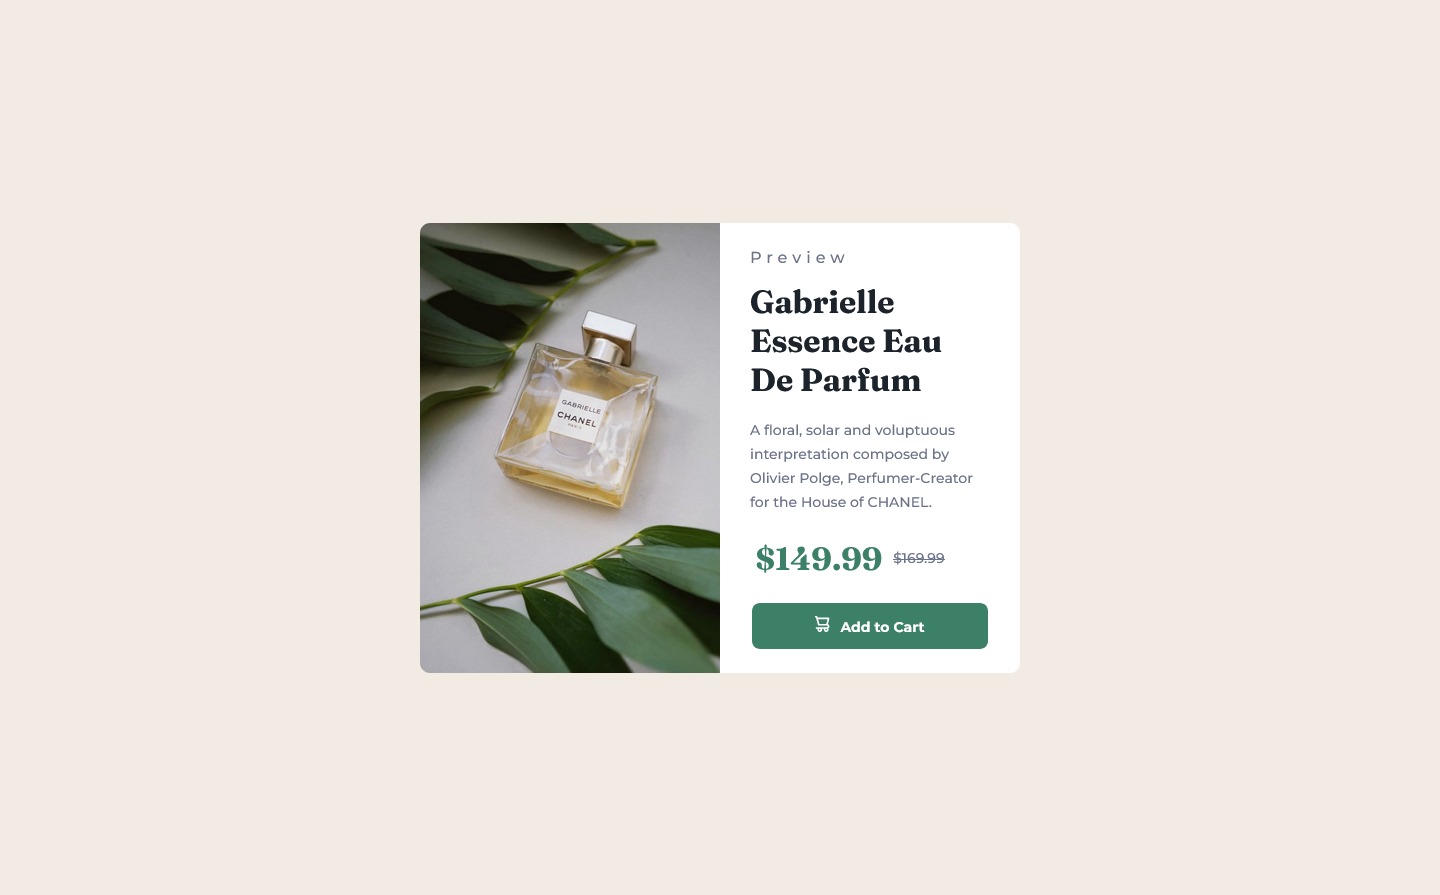
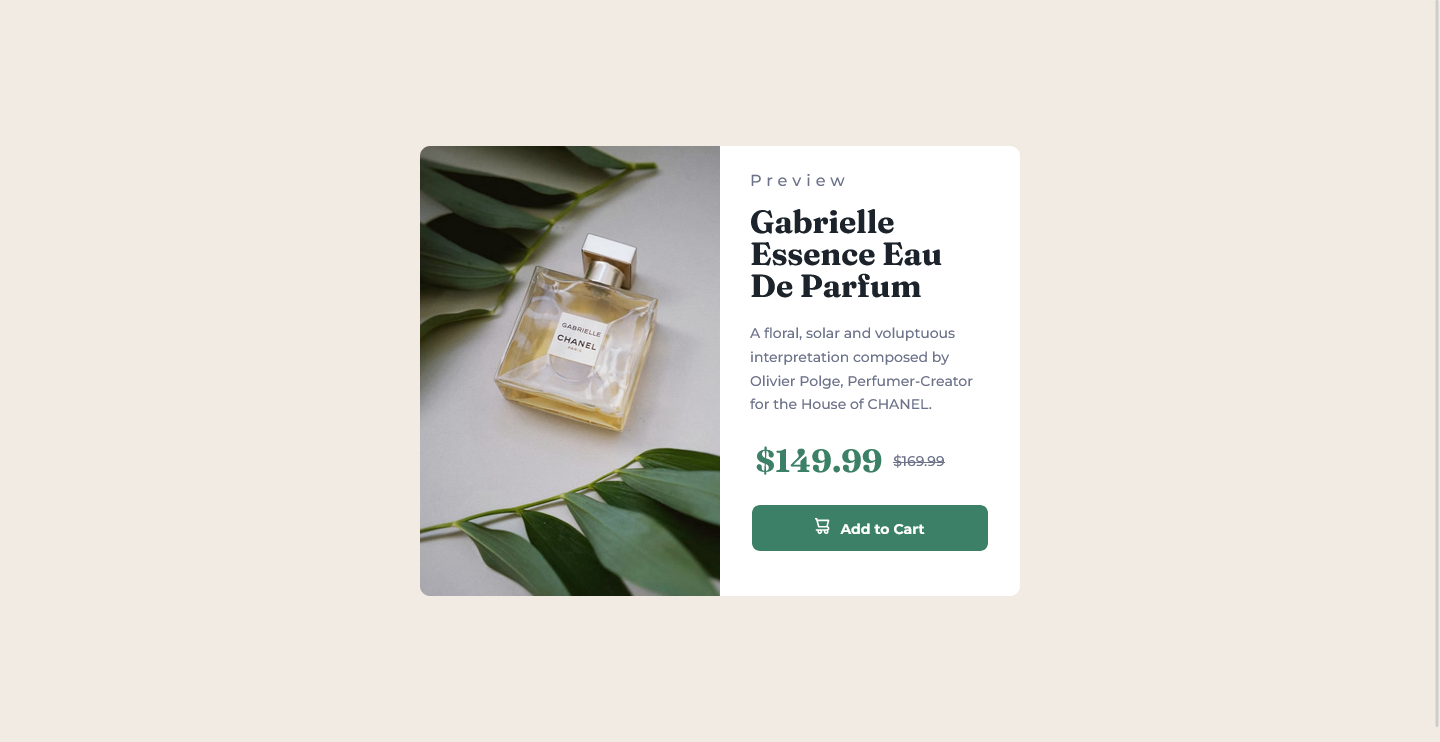
Pic Element

Changed region(s): [[0.2812, 0.186, 0.7188, 0.8059]]

diff --git a/css/main.css b/css/main.css
@@ -76,38 +76,23 @@ main .container .content {
     }
 }
 
-main .container .content .image {
+main .content picture {
     width: 300px;
 }
 
 /* Mobile */
 @media (max-width: 767px) {
-    main .container .content .image {
+    main .content picture {
         width: 335px;
     }
 }
 
-main .container .content .main-img {
+main picture img {
     max-width: 100%;
+    margin-bottom: -4px;
 }
 
-main .container .content .main-img2 {
-    display: none;
-}
-
-/* Mobile */
-@media (max-width: 767px) {
-    main .container .content .main-img {
-        display: none;
-    }
-
-    main .container .content .main-img2 {
-        display: block;
-        max-width: 100%;
-    }
-}
-
-main .container .content .box {
+main .content .box {
     width: 300px;
     height: 450px;
     background-color: var(--White);
@@ -116,21 +101,21 @@ main .container .content .box {
 
 /* Mobile */
 @media (max-width: 767px) {
-    main .container .content .box {
+    main .content .box {
         width: 335px;
         height: auto;
         padding: 0 1.563rem;
     }
 }
 
-main .container .content .box .title {
+main .box .title {
     display: block;
     color: var(--Dark-grayish-blue);
     margin-top: 1.563rem;
     letter-spacing: 0.313rem;
 }
 
-main .container .content .box h1 {
+main .box h1 {
     margin: 0.938rem 0 1.25rem;
     font-size: 2rem;
     font-family: 'Fraunces', serif;
@@ -138,14 +123,14 @@ main .container .content .box h1 {
     line-height: 1;
 }
 
-main .container .content .box p {
+main .box p {
     line-height: 1.7;
     font-size: 0.875rem;
     color: var(--Dark-grayish-blue);
     margin-bottom: 1.563rem;
 }
 
-main .container .content .box .price {
+main .box .price {
     display: flex;
     justify-content: space-around;
     align-items: center;
@@ -154,18 +139,18 @@ main .container .content .box .price {
 
 /* Mobile */
 @media (max-width: 767px) {
-    main .container .content .box .price {
+    main .box .price {
         margin-bottom: 0;
     }
 }
 
-main .container .content .box .price .amount {
+main .box .price .amount {
     font-size: 2rem;
     color: var(--Dark-cyan);
     font-family: 'Fraunces', serif;
 }
 
-main .container .content .box .price .pre-price {
+main .box .price .pre-amount {
     margin-right: 2.5rem;
     font-size: 0.875rem;
     color: var(--Dark-grayish-blue);
@@ -174,12 +159,12 @@ main .container .content .box .price .pre-price {
 
 /* Mobile */
 @media (max-width: 767px) {
-    main .container .content .box .price .pre-price {
+    main .box .price .pre-amount {
         margin-right: 5rem;
     }
 }
 
-main .container .content .box a {
+main .box a {
     background-color: var(--Dark-cyan);
     color: var(--White);
     display: block;
@@ -194,17 +179,17 @@ main .container .content .box a {
 
 /* Mobile */
 @media (max-width: 767px) {
-    main .container .content .box a {
+    main .box a {
         padding: 0.625rem 5.3rem;
         margin: 1.25rem auto 1.25rem;
     }
 }
 
-main .container .content .box a:hover {
+main .box a:hover {
     background-color: var(--Darkish-cyan);
 }
 
-main .container .content .box a .cart {
+main .box a .cart {
     margin-right: 0.625rem;
 }
 

diff --git a/index.html b/index.html
@@ -33,9 +33,11 @@
   <main>
     <div class="container">
       <div class="content">
+        <picture>
+          <source media="(max-width: 767px)" srcset="images/image-product-mobile.jpg">
+          <img src="images/image-product-desktop.jpg" alt="Product Picture">
+        </picture>
         <div class="image">
-          <img class="main-img" src="images/image-product-desktop.jpg" alt="Product Image">
-          <img class="main-img2" src="images/image-product-mobile.jpg" alt="Product Image">
         </div>
         <div class="box">
           <span class="title">Preview</span>
@@ -46,7 +48,7 @@
           </p>
           <div class="price">
             <span class="amount">$149.99</span>
-            <span class="pre-price">$169.99</span>
+            <span class="pre-amount">$169.99</span>
           </div>
           <a href="#"><img class="cart" src="images/icon-cart.svg" alt="Cart Icon">Add to Cart</a>
         </div>
